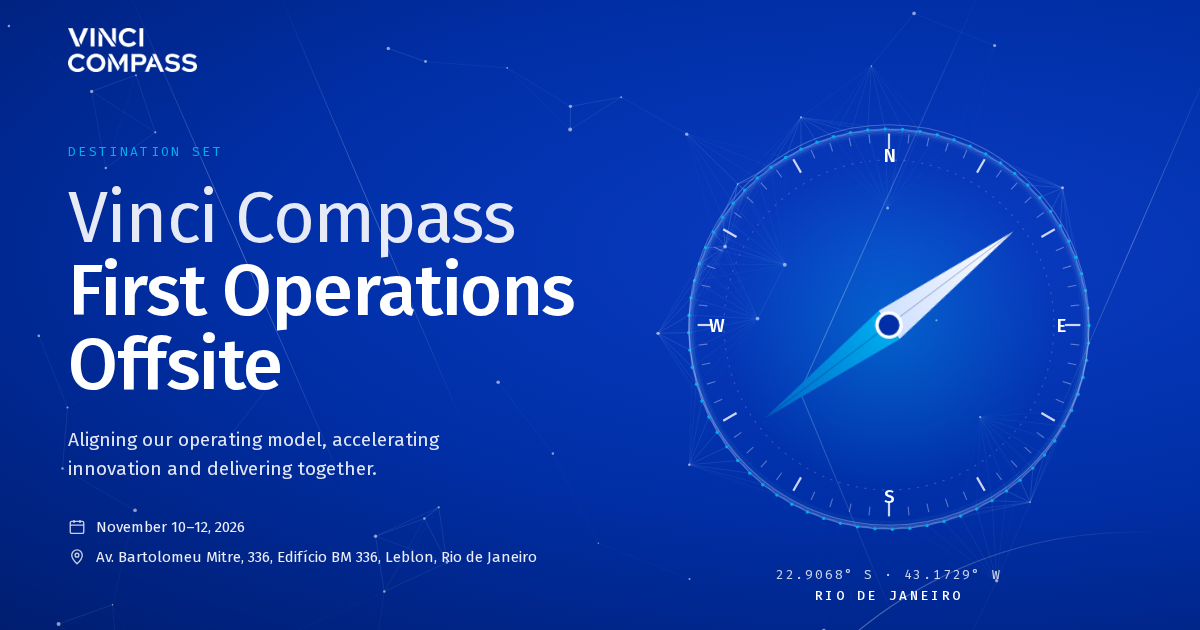
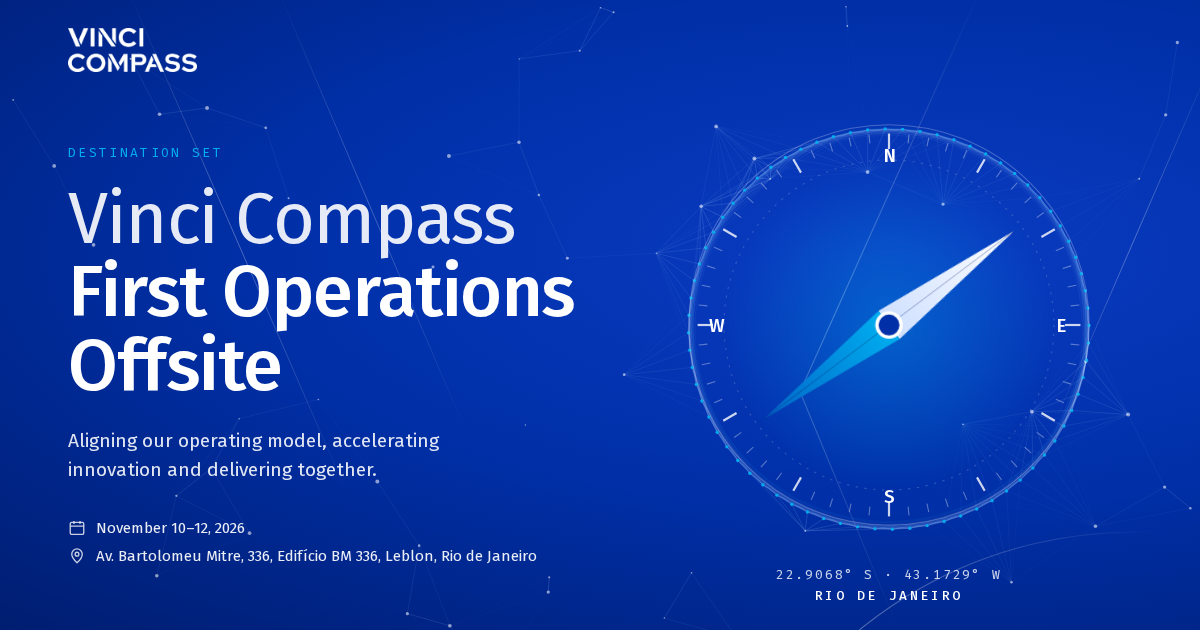
Page: bigger compass again, day tabs for topics
- Compass back to its original size; date and address on separate lines
- "View agenda · Coming soon" on its own line under the two main buttons
- Topics: choose a day with the tabs and see that day's topics as a large numbered list

Claude-Session: https://claude.ai/code/session_01FaNVSYFrevAuPMsfuyBYtW

diff --git a/index.html b/index.html
@@ -39,7 +39,7 @@ a{color:inherit}
 .topbar{position:relative;z-index:2;display:flex;justify-content:space-between;align-items:center;padding:28px 0}
 .topbar img{height:44px;width:auto;display:block}
 .tag{font-family:"Fira Mono",monospace;font-size:12px;letter-spacing:.14em;text-transform:uppercase;color:rgba(255,255,255,.75);border:1px solid rgba(255,255,255,.3);padding:7px 12px;border-radius:999px}
-.hero-grid{position:relative;z-index:2;flex:1;display:grid;grid-template-columns:minmax(0,1.35fr) minmax(0,.65fr);align-items:center;gap:40px;padding-bottom:64px}
+.hero-grid{position:relative;z-index:2;flex:1;display:grid;grid-template-columns:minmax(0,1.05fr) minmax(0,.95fr);align-items:center;gap:40px;padding-bottom:64px}
 .kicker{font-family:"Fira Mono",monospace;font-size:13px;letter-spacing:.18em;text-transform:uppercase;color:var(--cyan);margin-bottom:22px;min-height:1.2em}
 h1{font-weight:600;font-size:clamp(40px,6vw,76px);line-height:1.02;letter-spacing:-.02em}
 h1 .light{font-weight:300;display:block;opacity:.9}
@@ -47,22 +47,22 @@ h1 .light{font-weight:300;display:block;opacity:.9}
 .no-js .caret{display:none}
 .caret{display:inline-block;width:2px;height:1.05em;background:var(--cyan);vertical-align:-.15em;margin-left:2px;animation:blink 1s steps(1) infinite}
 @keyframes blink{50%{opacity:0}}
-.facts{margin-top:34px;display:flex;flex-wrap:wrap;gap:12px 28px;font-size:15px}
+.facts{margin-top:34px;display:flex;flex-direction:column;gap:10px;font-size:15px}
 .fact{display:flex;align-items:center;gap:10px;color:rgba(255,255,255,.92)}
 .fact svg{flex:none;opacity:.85}
-.ctas{margin-top:38px;display:flex;flex-wrap:wrap;gap:10px;position:relative}
-.btn{font:inherit;font-size:15.5px;font-weight:500;cursor:pointer;display:inline-flex;align-items:center;gap:10px;padding:13px 18px;white-space:nowrap;border-radius:999px;text-decoration:none;transition:transform .2s ease,background .2s ease,box-shadow .2s ease;border:1.5px solid transparent}
+.ctas{margin-top:38px;display:flex;flex-wrap:wrap;gap:14px;position:relative}
+.btn{font:inherit;font-size:16px;font-weight:500;cursor:pointer;display:inline-flex;align-items:center;gap:10px;padding:15px 24px;white-space:nowrap;border-radius:999px;text-decoration:none;transition:transform .2s ease,background .2s ease,box-shadow .2s ease;border:1.5px solid transparent}
 .btn:focus-visible{outline:3px solid var(--cyan);outline-offset:3px}
 .btn-primary{background:var(--white);color:var(--blue);box-shadow:0 10px 30px rgba(0,10,60,.35)}
 .btn-primary:hover{transform:translateY(-2px);box-shadow:0 14px 34px rgba(0,10,60,.45)}
-.btn-soon{color:rgba(255,255,255,.55);border-color:rgba(255,255,255,.25);border-style:dashed;cursor:not-allowed;user-select:none}
+.btn-soon{flex-basis:100%;max-width:max-content;color:rgba(255,255,255,.55);border-color:rgba(255,255,255,.25);border-style:dashed;cursor:not-allowed;user-select:none}
 .btn-soon .soon{font-size:11px;font-weight:600;letter-spacing:.08em;text-transform:uppercase;background:rgba(0,174,239,.18);color:#7FD6F7;padding:4px 8px;border-radius:999px}
 .btn-ghost{color:var(--white);border-color:rgba(255,255,255,.55);background:transparent}
 .btn-ghost:hover{background:rgba(255,255,255,.1);transform:translateY(-2px)}
 
 /* compass */
 .compass-box{position:relative;display:flex;flex-direction:column;align-items:center;justify-content:center}
-.compass{width:min(420px,100%);aspect-ratio:1;position:relative}
+.compass{width:min(440px,80vw);aspect-ratio:1;position:relative}
 .compass svg{width:100%;height:100%;overflow:visible}
 .js .dial{opacity:0;transition:opacity 1.2s ease .3s}
 .js .ready .dial{opacity:1}
@@ -157,6 +157,11 @@ h2{font-size:clamp(30px,3.6vw,44px);color:var(--blue);font-weight:600;letter-spa
 .day-card li:first-child{border-top:none}
 .day-card li::before{content:counter(t,decimal-leading-zero);position:absolute;left:0;top:11px;font-family:"Fira Mono",monospace;font-size:12px;color:var(--cyan);font-weight:500}
 
+.tlist{list-style:none;counter-reset:t;margin-top:6px}
+.tlist li{counter-increment:t;display:grid;grid-template-columns:64px 1fr;align-items:baseline;gap:8px;padding:22px 8px 22px 4px;border-bottom:1px solid var(--line);font-size:clamp(19px,2vw,24px);font-weight:500;line-height:1.3;color:var(--blue);animation:rowin .45s ease both}
+.tlist li::before{content:counter(t,decimal-leading-zero);font-family:"Fira Mono",monospace;font-size:15px;font-weight:500;color:var(--cyan);letter-spacing:.05em}
+.tlist li:hover{background:var(--shade)}
+
 /* ---------- FOOTER ---------- */
 footer{background:var(--blue);color:rgba(255,255,255,.85);padding:40px 0;position:relative;overflow:hidden}
 footer .wrap{display:flex;justify-content:space-between;align-items:center;gap:20px;flex-wrap:wrap}
@@ -170,7 +175,7 @@ footer p{font-size:14px;line-height:1.6;text-align:right}
   .coords{margin-top:8px;font-size:12px}
   .topbar{padding:20px 0 6px}
   .tabs{grid-template-columns:1fr}
-  .topic-grid{grid-template-columns:1fr}
+  .tlist li{grid-template-columns:44px 1fr;padding:16px 4px}
   .ctas .btn{width:100%;justify-content:center}
   .tab .t{display:none}
   .row{grid-template-columns:96px 1fr;gap:10px}
@@ -279,7 +284,8 @@ footer p{font-size:14px;line-height:1.6;text-align:right}
         <p class="sec-sub">What we will cover each day.</p>
       </div>
     </div>
-    <div class="topic-grid"><article class="day-card" id="day1"><span class="d">Day 1</span><span class="date">November 10</span><span class="wd">Tuesday</span><p class="theme">Strategic Alignment &amp; Control Framework</p><ol><li>Welcome and Offsite Objectives</li><li>Business Update and Strategy</li><li>Global Operations Update: KPIs and Medium-/Long-Term Objectives</li><li>Firm Technology Strategy</li><li>SOX Implementation Update</li><li>Minimum Controls for External Administrators Workshop</li><li>Day-One Discussion and Key Takeaways</li></ol></article><article class="day-card" id="day2"><span class="d">Day 2</span><span class="date">November 11</span><span class="wd">Wednesday</span><p class="theme">Technology, Innovation &amp; Local Execution</p><ol><li>Day-One Recap</li><li>Business-Driven IT Governance</li><li>Operational Innovation and AI</li><li>Local Operations Update and 2027 Goals: Chile</li><li>Local Operations Update and 2027 Goals: Brazil</li><li>Team-Building Activity</li></ol></article><article class="day-card" id="day3"><span class="d">Day 3</span><span class="date">November 12</span><span class="wd">Thursday</span><p class="theme">Standardization, Commitment &amp; Execution</p><ol><li>Day-Two Recap</li><li>Operational Process Standardization and Excellence</li><li>Local Operations Update and 2027 Goals: Mexico</li><li>Local Operations Update and 2027 Goals: United States</li><li>Local Operations Update and 2027 Goals: Argentina</li><li>2027 Priorities, Cross-Country Dependencies and Action Plan</li><li>Closing Session</li><li>Final Reflections</li></ol></article></div>
+    <div class="tabs" role="tablist" id="tabs"><button class="tab" role="tab" id="tab1" aria-controls="day1" aria-selected="true"><span class="d">Day 1</span><span class="w">Tuesday, November 10</span><span class="t">Strategic Alignment &amp; Control Framework</span></button><button class="tab" role="tab" id="tab2" aria-controls="day2" aria-selected="false"><span class="d">Day 2</span><span class="w">Wednesday, November 11</span><span class="t">Technology, Innovation &amp; Local Execution</span></button><button class="tab" role="tab" id="tab3" aria-controls="day3" aria-selected="false"><span class="d">Day 3</span><span class="w">Thursday, November 12</span><span class="t">Standardization, Commitment &amp; Execution</span></button></div>
+    <section class="day-panel" id="day1" role="tabpanel" aria-labelledby="tab1"><div class="day-head"><div><h3>Day 1 · Tuesday, November 10, 2026</h3><p>Strategic Alignment &amp; Control Framework</p></div></div><ol class="tlist"><li>Welcome and Offsite Objectives</li><li>Business Update and Strategy</li><li>Global Operations Update: KPIs and Medium-/Long-Term Objectives</li><li>Firm Technology Strategy</li><li>SOX Implementation Update</li><li>Minimum Controls for External Administrators Workshop</li><li>Day-One Discussion and Key Takeaways</li></ol></section><section class="day-panel" id="day2" role="tabpanel" aria-labelledby="tab2" hidden><div class="day-head"><div><h3>Day 2 · Wednesday, November 11, 2026</h3><p>Technology, Innovation &amp; Local Execution</p></div></div><ol class="tlist"><li>Day-One Recap</li><li>Business-Driven IT Governance</li><li>Operational Innovation and AI</li><li>Local Operations Update and 2027 Goals: Chile</li><li>Local Operations Update and 2027 Goals: Brazil</li><li>Team-Building Activity</li></ol></section><section class="day-panel" id="day3" role="tabpanel" aria-labelledby="tab3" hidden><div class="day-head"><div><h3>Day 3 · Thursday, November 12, 2026</h3><p>Standardization, Commitment &amp; Execution</p></div></div><ol class="tlist"><li>Day-Two Recap</li><li>Operational Process Standardization and Excellence</li><li>Local Operations Update and 2027 Goals: Mexico</li><li>Local Operations Update and 2027 Goals: United States</li><li>Local Operations Update and 2027 Goals: Argentina</li><li>2027 Priorities, Cross-Country Dependencies and Action Plan</li><li>Closing Session</li><li>Final Reflections</li></ol></section>
     <p class="foot-note">The detailed agenda with times and speakers will be shared soon.</p>
   </div>
 </main>
@@ -301,6 +307,20 @@ footer p{font-size:14px;line-height:1.6;text-align:right}
     u.searchParams.set('body', u.searchParams.get('body') + '\n\nDetails: ' + location.origin + location.pathname);
     a.href = u.toString();
   }
+})();
+
+/* ---------- topic tabs ---------- */
+(function(){
+  const tabs = [...document.querySelectorAll('#tabs .tab')], panels = [...document.querySelectorAll('.day-panel')];
+  function show(i){
+    tabs.forEach((t,k) => { t.setAttribute('aria-selected', k===i); t.tabIndex = k===i?0:-1; });
+    panels.forEach((p,k) => { p.hidden = k!==i; if (k===i) p.querySelectorAll('li').forEach((r,j)=>{ r.style.animation='none'; r.offsetHeight; r.style.animation=''; r.style.animationDelay=(j*45)+'ms'; }); });
+  }
+  tabs.forEach((t,i) => {
+    t.addEventListener('click', () => show(i));
+    t.addEventListener('keydown', e => { if (e.key==='ArrowRight'||e.key==='ArrowLeft'){ const n=(i+(e.key==='ArrowRight'?1:-1)+tabs.length)%tabs.length; show(n); tabs[n].focus(); } });
+  });
+  show(0);
 })();
 
 /* ---------- compass + typing ---------- */
